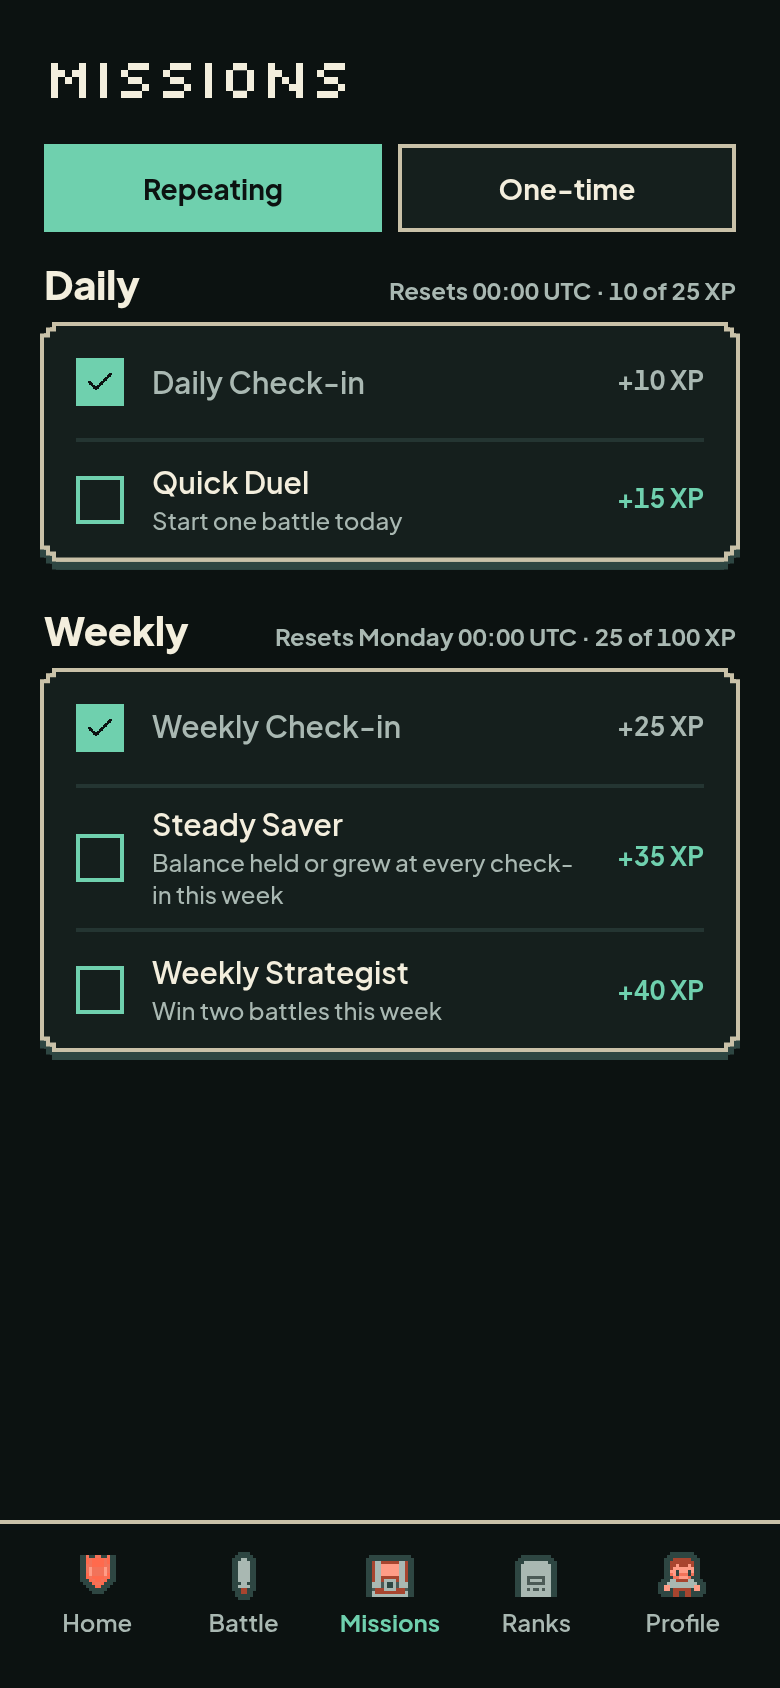
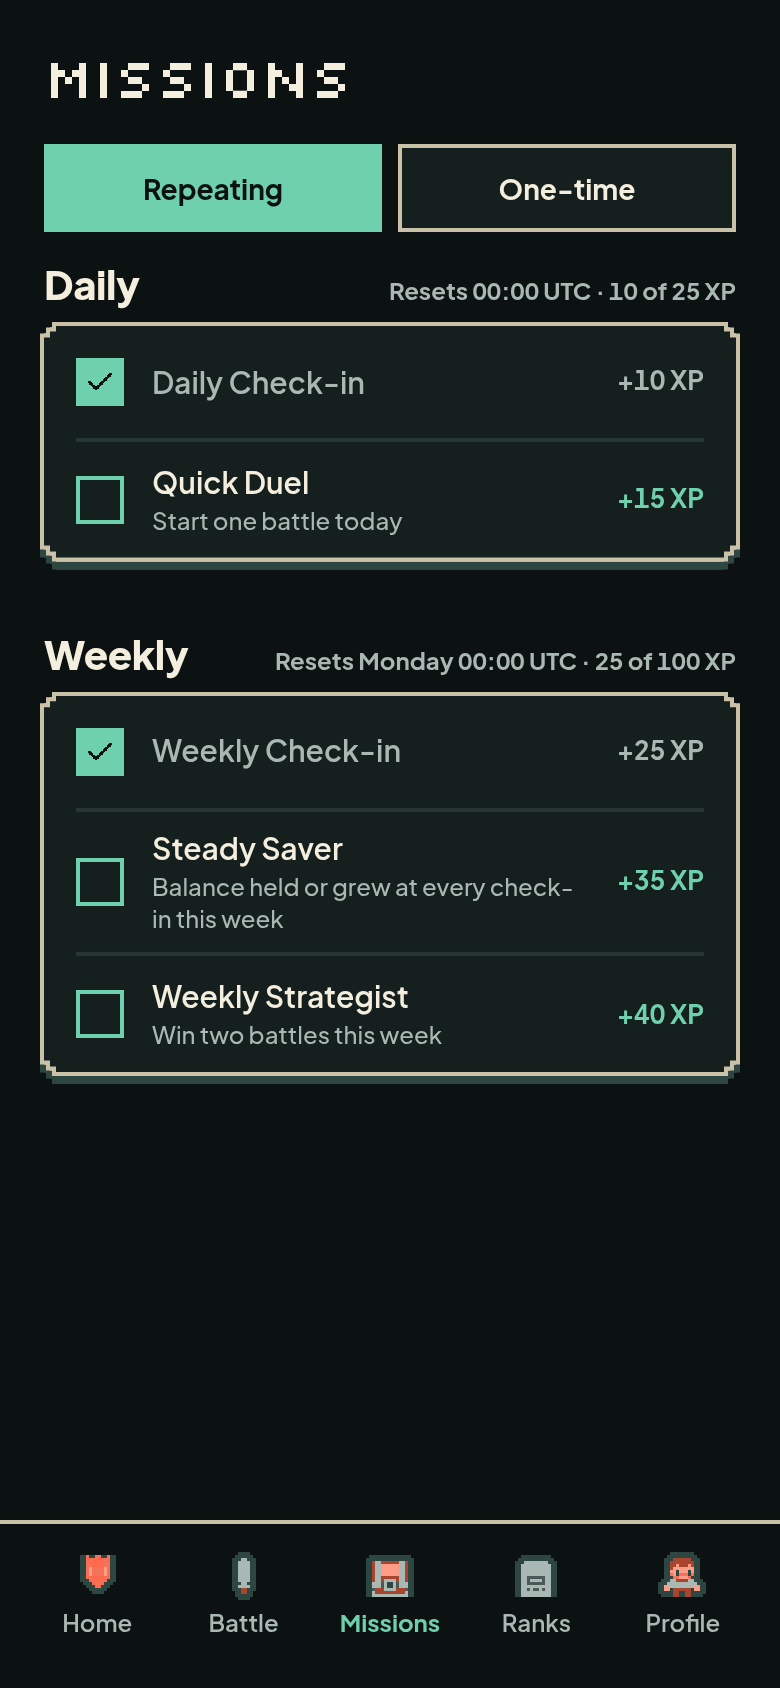
chore: refresh missions renders after the group gap

Changed region(s): [[0.0308, 0.3697, 0.9538, 0.6469], [0.6462, 0.4929, 0.7077, 0.5545], [0.8, 0.4929, 0.8923, 0.5237]]

diff --git a/docs/superpowers/audits/2026-11-05-ui-gap-audit.md b/docs/superpowers/audits/2026-11-05-ui-gap-audit.md
@@ -1157,8 +1157,8 @@ period XP counter. The cap cards are gone.
   with `Resets Monday 00:00 UTC · 25 of 100 XP`, `One-time` with
   `Never expires`. Titles are 20px default text; captions are the new 12px
   `.sv-caption` role.
-- **Group rhythm:** the groups sit in a 24px-gap list, so the Daily panel and
-  the Weekly header have 24px between them. The tabs keep 14px to the first
+- **Group rhythm:** the groups sit in a 36px-gap list, so the Daily panel and
+  the Weekly header have 36px between them. The tabs keep 14px to the first
   group and a header keeps 8px to its own panel.
 - **Rows:** one grouped `PixelPanel` per group; 24px box (mint fill + ground
   check when done, mint outline when open), a 15px/1.35 title, a 12px/500/1.35
@@ -1194,8 +1194,8 @@ period XP counter. The cap cards are gone.
 
 - Both tabs and both group captions fit on one line: the Weekly caption is
   231px inside a 324px body, so the handoff copy stays intact.
-- The 24px group gap moves the Weekly header down 10px; both groups still fit
-  above the nav at 360.
+- The 36px group gap moves the Weekly header down 22px from the handoff
+  rhythm; both groups still fit above the nav at 360.
 - `Steady Saver`'s description wraps to two lines at 360 and 390; the row grows
   to about 71px with 8px of clearance under the last line. Nothing is clipped
   or truncated.
@@ -1212,11 +1212,11 @@ period XP counter. The cap cards are gone.
   and a visually hidden `(completed)`, not by colour alone.
 - **Descriptions on open rows only.** Done rows are scannable at 58px, matching
   the handoff; the explanation is only needed before the mission is earned.
-- **24px between groups.** The first render read the Daily panel and the Weekly
-  header as one block because the 14px shell gap and the panel's 4px hard shadow
-  left about 10px of air. The groups now sit in a 24px-gap list; the tabs keep
-  the 14px shell rhythm and a header keeps 8px to its own panel, so each title
-  stays bound to its rows.
+- **36px between groups.** The 14px shell gap and the panel's 4px hard shadow
+  left about 10px of air, and a first pass at 24px still read as one block. The
+  groups now sit in a 36px-gap list (about 40px visible after the shadow); the
+  tabs keep the 14px shell rhythm and a header keeps 8px to its own panel, so
+  each title stays bound to its rows.
 - **Row type pass.** The first renders showed two-line descriptions ending on
   the divider. The title dropped from 16px to the handoff's 15px and the body
   gained 8px vertical padding. The description is already at the 12px floor, so

diff --git a/docs/superpowers/renders/missions/review/NOTES.md b/docs/superpowers/renders/missions/review/NOTES.md
@@ -60,7 +60,7 @@ Corrections:
   description. The body column carries 8px vertical padding, so a two-line
   description row grows to about 71px and its last line clears the divider by
   8px. Done and one-line rows stay 58px.
-- Groups are separated by 24px (Daily panel to Weekly header). The tabs keep
+- Groups are separated by 36px (Daily panel to Weekly header). The tabs keep
   14px to the first group, and a header keeps 8px to its own panel.
 - Done rows are exactly 58px with no description. Open rows grow when the
   description wraps (`Balance held or grew at every check-in this week` is two
